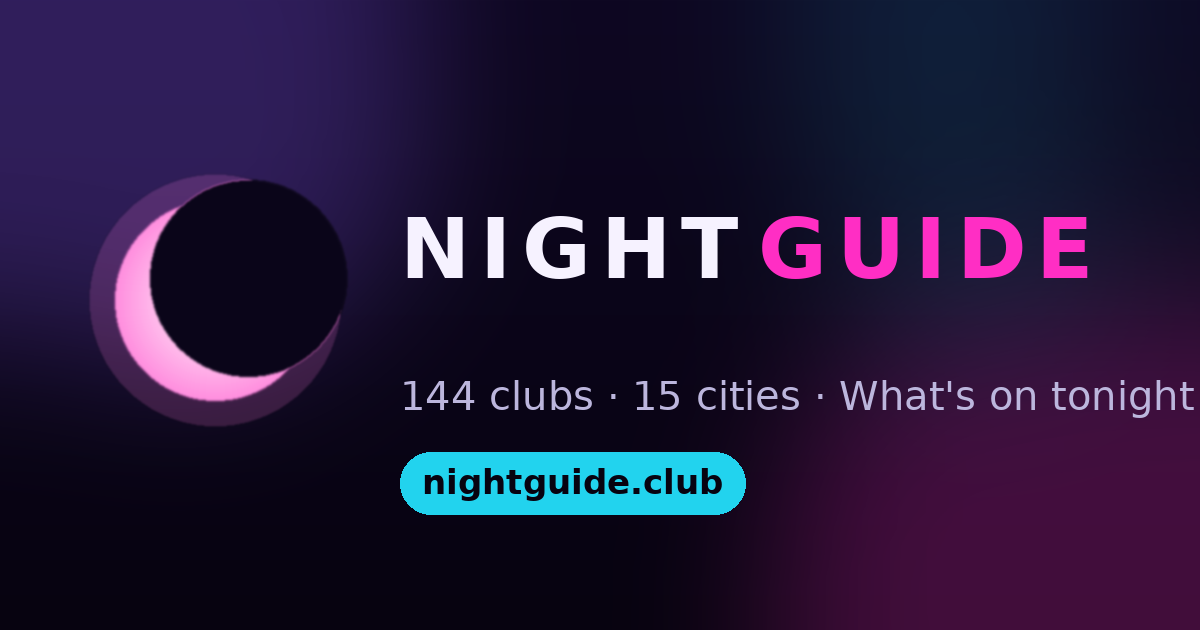
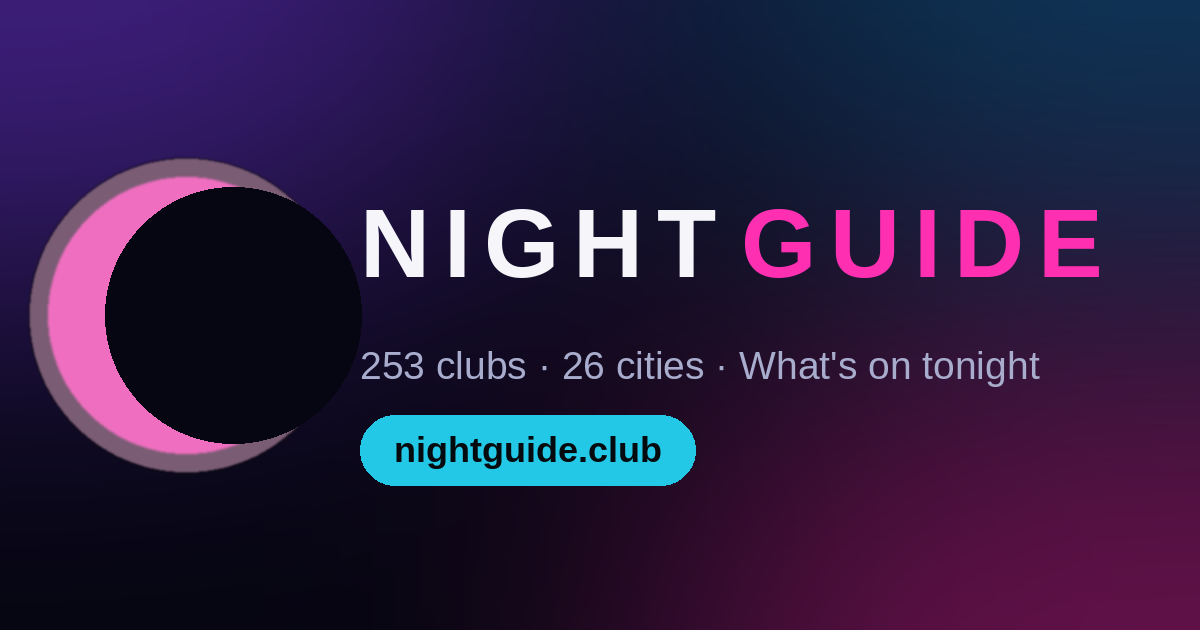
Refresh brand graphic: 253 clubs, 26 cities (og share card + Page cover)

diff --git a/tools/make-cover.py b/tools/make-cover.py
@@ -1,0 +1,78 @@
+#!/usr/bin/env python3
+"""Regenerate the NightGuide brand graphic (og share card + FB Page cover)
+with current counts. Matches the neon-noir og-image design."""
+import sys
+from PIL import Image, ImageDraw, ImageFilter, ImageFont
+
+W, H = int(sys.argv[1]), int(sys.argv[2])
+OUT = sys.argv[3]
+CLUBS, CITIES = sys.argv[4], sys.argv[5]
+
+BOLD = "/usr/share/fonts/truetype/liberation/LiberationSans-Bold.ttf"
+REG = "/usr/share/fonts/truetype/liberation/LiberationSans-Regular.ttf"
+
+# --- background: deep navy base + colored glows ---
+img = Image.new("RGB", (W, H), (5, 5, 16))
+glow = Image.new("RGB", (W, H), (0, 0, 0))
+gd = ImageDraw.Draw(glow)
+gd.ellipse([-W * 0.25, -H * 0.55, W * 0.45, H * 0.45], fill=(58, 26, 110))    # purple TL
+gd.ellipse([W * 0.55, -H * 0.6, W * 1.2, H * 0.35], fill=(10, 52, 78))          # teal TR
+gd.ellipse([W * 0.55, H * 0.55, W * 1.25, H * 1.3], fill=(96, 12, 58))          # magenta BR
+glow = glow.filter(ImageFilter.GaussianBlur(W // 7))
+from PIL import ImageChops
+img = ImageChops.add(img, glow)
+
+S = W / 1640.0  # scale factor vs cover master
+
+# --- crescent moon (left) ---
+cx, cy, R = int(W * 0.155), int(H * 0.50), int(H * 0.25)
+moon = Image.new("RGBA", (W, H), (0, 0, 0, 0))
+md = ImageDraw.Draw(moon)
+md.ellipse([cx - R, cy - R, cx + R, cy + R], fill=(122, 92, 116, 255))         # mauve halo disc
+r2 = int(R * 0.88)
+md.ellipse([cx - r2, cy - r2, cx + r2, cy + r2], fill=(240, 110, 192, 255))     # pink disc
+moon = moon.filter(ImageFilter.GaussianBlur(1.2))
+img = Image.alpha_composite(img.convert("RGBA"), moon)
+d = ImageDraw.Draw(img)
+r3 = int(R * 0.82)
+off = int(R * 0.30)
+d.ellipse([cx - r3 + off, cy - r3, cx + r3 + off, cy + r3], fill=(6, 6, 18, 255))  # dark cut
+
+def tracked(draw, xy, text, font, tracking, fill):
+    x, y = xy
+    for ch in text:
+        draw.text((x, y), ch, font=font, fill=fill)
+        w = draw.textlength(ch, font=font)
+        x += w + tracking
+    return x
+
+def tracked_width(draw, text, font, tracking):
+    return sum(draw.textlength(c, font=font) + tracking for c in text) - tracking
+
+# --- wordmark ---
+tx = int(W * 0.30)
+fsize = int(118 * S * (1640 / W) * (W / 1640))  # keep proportional
+fsize = int(H * 0.155)
+font = ImageFont.truetype(BOLD, fsize)
+tr = fsize * 0.14
+y = int(H * 0.30)
+x = tracked(d, (tx, y), "NIGHT", font, tr, (245, 245, 250, 255))
+tracked(d, (x + fsize * 0.12, y), "GUIDE", font, tr, (255, 47, 178, 255))
+
+# --- subline ---
+sub = f"{CLUBS} clubs · {CITIES} cities · What's on tonight"
+sfont = ImageFont.truetype(REG, int(H * 0.062))
+d.text((tx, int(H * 0.545)), sub, font=sfont, fill=(168, 172, 205, 255))
+
+# --- link pill ---
+pfont = ImageFont.truetype(BOLD, int(H * 0.058))
+label = "nightguide.club"
+tw = d.textlength(label, font=pfont)
+pad_x, pad_y = int(H * 0.055), int(H * 0.028)
+px, py = tx, int(H * 0.66)
+pw, ph = tw + pad_x * 2, int(H * 0.058) + pad_y * 2
+d.rounded_rectangle([px, py, px + pw, py + ph], radius=ph // 2, fill=(34, 200, 229, 255))
+d.text((px + pad_x, py + pad_y - int(H * 0.006)), label, font=pfont, fill=(4, 10, 14, 255))
+
+img.convert("RGB").save(OUT, "PNG")
+print("wrote", OUT, W, H)
